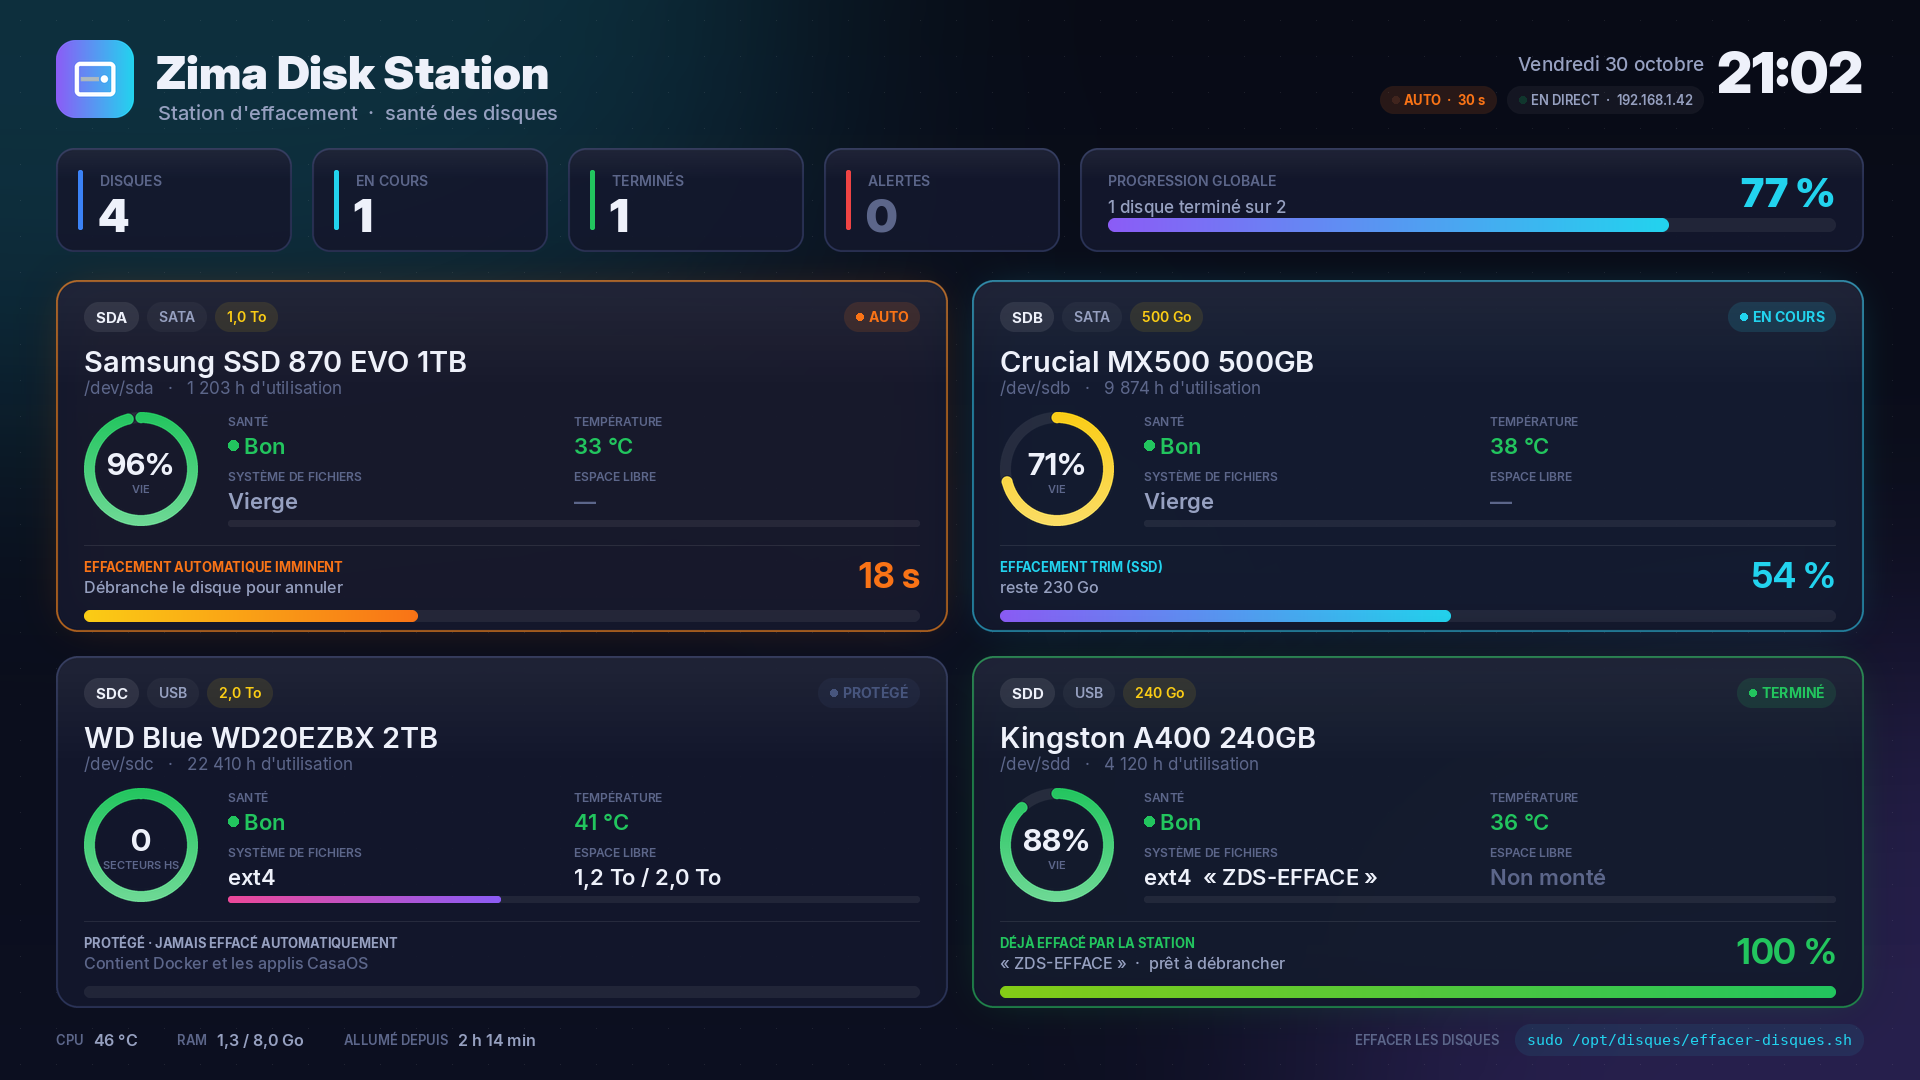
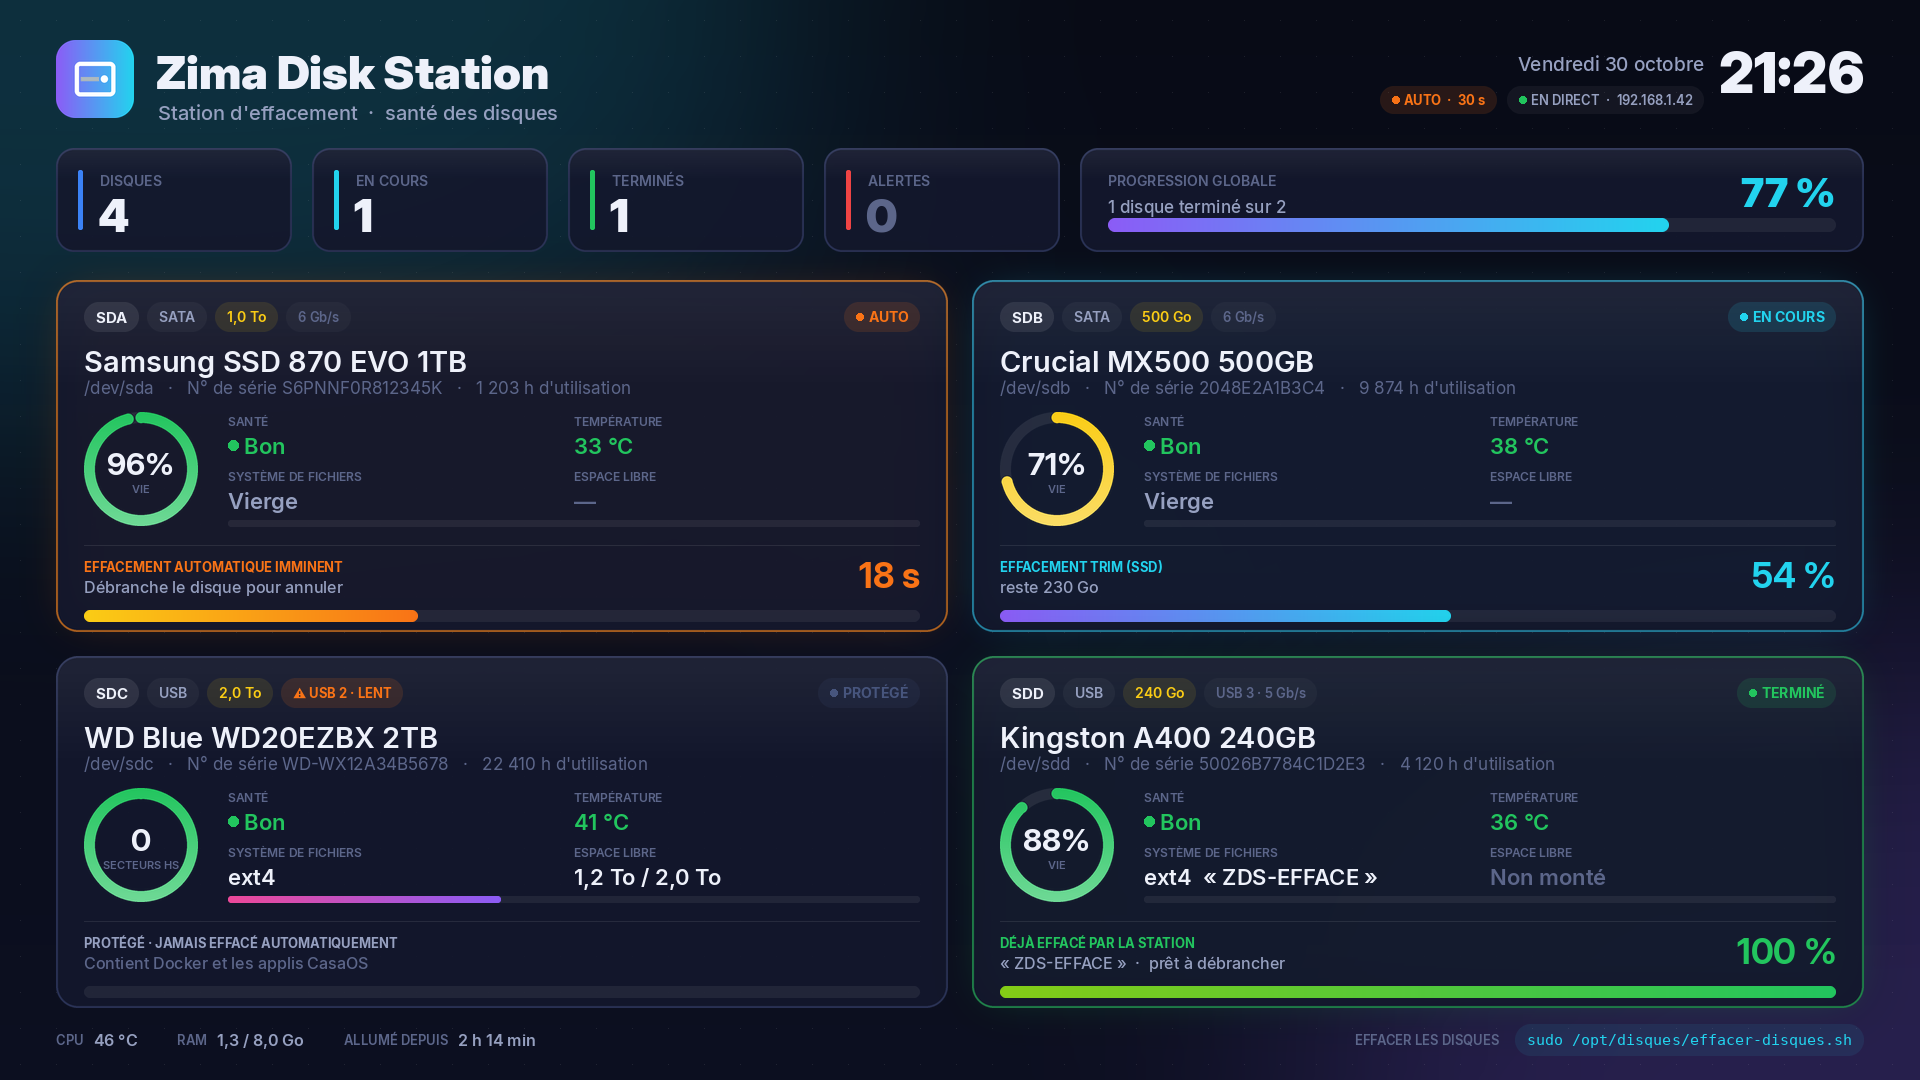
N° de série, vitesse du lien, heure de fin et vérification
- Écran : numéro de série, vitesse réelle du branchement (alerte orange
  pour USB 2 ou SATA limité), heure de fin prévue (« demain » si besoin),
  badge ✓ VÉRIFIÉ.
- Effacement complet : relit le début, la fin et 64 zones au hasard ;
  erreur affichée si une zone n'est pas à zéro. Le TRIM se fait après la
  vérification.
- Aperçus mis à jour.

Claude-Session: https://claude.ai/code/session_01ESERkiZwKhXyX5CCxbZaPW

diff --git a/ecran-disques.py b/ecran-disques.py
@@ -320,18 +320,58 @@ def lire_smart(path):
 def lire_statut(nom):
     p = os.path.join(STATUS_DIR, nom)
     if not os.path.isfile(p):
-        return {"has": False, "pct": 0, "msg": "", "reste": None}
+        return {"has": False, "pct": 0, "msg": "", "reste": None, "fin": None}
     try:
         parts = open(p, encoding="utf-8").read().strip().split("|")
     except OSError:
-        return {"has": False, "pct": 0, "msg": "", "reste": None}
-    parts += ["", "", ""]
+        return {"has": False, "pct": 0, "msg": "", "reste": None, "fin": None}
+    parts += ["", "", "", ""]
     pct = int(parts[0]) if parts[0].lstrip("-").isdigit() else 0
     reste = int(parts[2]) if parts[2].isdigit() else None
-    return {"has": True, "pct": pct, "msg": parts[1], "reste": reste}
+    fin = int(parts[3]) if parts[3].isdigit() else None
+    return {"has": True, "pct": pct, "msg": parts[1], "reste": reste, "fin": fin}
+
+def lire(chemin):
+    try:
+        return open(chemin).read().strip()
+    except OSError:
+        return ""
+
+def vitesse_lien(nom, tran):
+    """Vitesse réelle du branchement : (texte, lent ?)."""
+    dev = os.path.realpath(f"/sys/block/{nom}/device")
+    if tran == "usb":
+        p = dev
+        while p and p != "/":
+            v = lire(os.path.join(p, "speed"))
+            if v.replace(".", "").isdigit() and os.path.isfile(os.path.join(p, "idVendor")):
+                mbps = float(v)
+                if mbps >= 10000:
+                    return "USB 3.1 · 10 Gb/s", False
+                if mbps >= 5000:
+                    return "USB 3 · 5 Gb/s", False
+                if mbps >= 480:
+                    return "USB 2 · LENT", True
+                return "USB 1 · TRÈS LENT", True
+            p = os.path.dirname(p)
+        return "", False
+    if tran == "sata":
+        m = re.search(r"/ata(\d+)/", dev)
+        if m:
+            v = lire(f"/sys/class/ata_link/link{m.group(1)}/sata_spd")
+            if v.startswith("6"):
+                return "6 Gb/s", False
+            if v.startswith("3"):
+                return "SATA 3 Gb/s · LIMITÉ", True
+            if v.startswith("1.5"):
+                return "SATA 1,5 Gb/s · LENT", True
+        return "", False
+    if tran == "nvme":
+        return "NVMe", False
+    return "", False
 
 def collecter():
-    out = run(["lsblk", "-J", "-b", "-o", "NAME,PATH,TYPE,TRAN,SIZE,MODEL,FSTYPE,LABEL,FSAVAIL,FSSIZE,MOUNTPOINT"])
+    out = run(["lsblk", "-J", "-b", "-o", "NAME,PATH,TYPE,TRAN,SIZE,MODEL,SERIAL,FSTYPE,LABEL,FSAVAIL,FSSIZE,MOUNTPOINT"])
     try:
         devs = json.loads(out or "{}").get("blockdevices", [])
     except ValueError:
@@ -350,7 +390,9 @@ def collecter():
         info = {"path": path, "nom": path.split("/")[-1], "tran": tran.upper(), "taille": int(d.get("size") or 0),
                 "modele": (d.get("model") or "Disque").strip(), "fs": fs.get("fstype") or "", "label": fs.get("label") or "",
                 "libre": int(mnt["fsavail"]) if mnt.get("fsavail") else None,
-                "total": int(mnt["fssize"]) if mnt.get("fssize") else None}
+                "total": int(mnt["fssize"]) if mnt.get("fssize") else None,
+                "serie": (d.get("serial") or "").strip()}
+        info["lien"], info["lent"] = vitesse_lien(info["nom"], tran)
         info.update(lire_smart(path))
         info.update(lire_statut(info["nom"]))
         disques.append(info)
@@ -398,9 +440,13 @@ def donnees_demo(n):
         dict(path="/dev/sdd", nom="sdd", tran="USB", taille=240057409536, modele="Kingston A400 240GB",
              etat="BON", vie=88, secteurs=None, temp=36, heures=4120),
     ]
-    vide = dict(fs="", label="", libre=None, total=None, has=False, pct=0, msg="", reste=None)
-    for d in base:
+    vide = dict(fs="", label="", libre=None, total=None, has=False, pct=0, msg="", reste=None, fin=None)
+    series = ["S6PNNF0R812345K", "2048E2A1B3C4", "WD-WX12A34B5678", "50026B7784C1D2E3"]
+    liens = [("6 Gb/s", False), ("6 Gb/s", False), ("USB 2 · LENT", True), ("USB 3 · 5 Gb/s", False)]
+    for d, sn, (l, lent) in zip(base, series, liens):
         d.update(vide)
+        d.update(serie=sn, lien=l, lent=lent)
+    maintenant = int(time.time())
     if n == 1:
         base[0].update(fs="ext4", label="DONNEES", libre=612400000000, total=983900000000)
         base[1].update(fs="ntfs", label="BACKUP")
@@ -414,15 +460,17 @@ def donnees_demo(n):
         base[3].update(has=True, pct=100, msg="Déjà effacé · « ZDS-EFFACE »", reste=0, fs="ext4", label="ZDS-EFFACE")
         return base
     if n == 2:
-        base[0].update(has=True, pct=62, msg="Écriture de zéros · 412 Mo/s · 15 min restantes", reste=395000000000)
-        base[1].update(has=True, pct=87, msg="Écriture de zéros · 395 Mo/s · 3 min restantes", reste=67000000000)
-        base[2].update(has=True, pct=23, msg="Écriture de zéros · 162 Mo/s · 2h38 restantes", reste=1597000000000)
-        base[3].update(has=True, pct=100, msg="Terminé · ext4 « DISQUE4 »", reste=0, fs="ext4", label="DISQUE4")
+        base[0].update(has=True, pct=62, msg="Écriture de zéros · 412 Mo/s · 15 min restantes", reste=395000000000,
+                       fin=maintenant + 16 * 60)
+        base[1].update(has=True, pct=89, msg="Vérification · échantillon 41 / 66", reste=40000000000)
+        base[2].update(has=True, pct=23, msg="Écriture de zéros · 31 Mo/s · 14h20 restantes", reste=1597000000000,
+                       fin=maintenant + 14 * 3600 + 21 * 60)
+        base[3].update(has=True, pct=100, msg="Terminé · ext4 « ZDS-EFFACE » · vérifié", reste=0, fs="ext4", label="ZDS-EFFACE")
         return base
-    base[0].update(has=True, pct=100, msg="Terminé · ext4 « DISQUE1 »", reste=0, fs="ext4", label="DISQUE1")
-    base[1].update(has=True, pct=100, msg="Terminé · ext4 « DISQUE2 »", reste=0, fs="ext4", label="DISQUE2")
+    base[0].update(has=True, pct=100, msg="Terminé · ext4 « ZDS-EFFACE » · vérifié", reste=0, fs="ext4", label="ZDS-EFFACE")
+    base[1].update(has=True, pct=100, msg="Terminé · ext4 « ZDS-EFFACE » · vérifié", reste=0, fs="ext4", label="ZDS-EFFACE")
     base[2].update(etat="DANGER", secteurs=148, temp=57, has=True, pct=45,
-                   msg="Écriture de zéros · 118 Mo/s · 2h41 restantes", reste=1100000000000)
+                   msg="Écriture de zéros · 118 Mo/s · 2h41 restantes", reste=1100000000000, fin=maintenant + 2 * 3600 + 42 * 60)
     return base[:3]
 
 # ------------------------------------------------------------------ réglage du mode automatique
@@ -490,12 +538,19 @@ def dessiner_carte(img, x, y, w, h, d, s):
     cx = X0
     cx += puce(img, cx, fy, d["nom"].upper(), F("bold", 15 * s), TXT, (255, 255, 255, 22), h=ch) + int(8 * s)
     cx += puce(img, cx, fy, d["tran"], F("semi", 14 * s), TXT2, (255, 255, 255, 10), h=ch) + int(8 * s)
-    puce(img, cx, fy, hum(d["taille"]), F("semi", 14 * s), YELLOW, YELLOW + (26,), h=ch)
+    cx += puce(img, cx, fy, hum(d["taille"]), F("semi", 14 * s), YELLOW, YELLOW + (26,), h=ch) + int(8 * s)
+    if d.get("lien"):
+        if d.get("lent"):
+            puce(img, cx, fy, "⚠ " + d["lien"], F("bold", 13 * s), ORANGE, ORANGE + (34,), h=ch)
+        else:
+            puce(img, cx, fy, d["lien"], F("semi", 13 * s), TXT3, (255, 255, 255, 8), h=ch)
     puce(img, X1, fy, badge, F("bold", 14 * s), coul, coul + (34,), h=ch, point=coul, droite=True)
 
     # --- modèle + sous-titre
     dr.text((X0, y + int(62 * s)), tronquer(d["modele"], F("semi", 28 * s), X1 - X0), font=F("semi", 28 * s), fill=TXT, anchor="la")
     sous = d["path"]
+    if d.get("serie"):
+        sous += f"   ·   N° de série {d['serie']}"
     if d.get("heures") is not None:
         sous += f"   ·   {milliers(d['heures'])} h d'utilisation"
     dr.text((X0, y + int(96 * s)), tronquer(sous, F("reg", 17 * s), X1 - X0), font=F("reg", 17 * s), fill=TXT3, anchor="la")
@@ -574,6 +629,12 @@ def dessiner_carte(img, x, y, w, h, d, s):
         return
     if st == "cours" or (st in ("danger", "erreur") and d["has"] and d["pct"] < 100 and not d["msg"].startswith(("ERREUR", "PROTÉGÉ"))):
         etape = morceaux[0]
+        if d.get("fin"):
+            fin_t = datetime.datetime.fromtimestamp(d["fin"])
+            morceaux = [m.replace(" restantes", "") for m in morceaux]
+            jours = (fin_t.date() - datetime.date.today()).days
+            quand = "" if jours <= 0 else ("demain " if jours == 1 else f"le {fin_t.day} {MOIS[fin_t.month - 1]} ")
+            morceaux.append(f"fin {quand or 'vers '}{fin_t.hour} h {fin_t.minute:02d}")
         details = "  ·  ".join(morceaux[1:])
         if d.get("reste"):
             details += ("  ·  " if details else "") + f"reste {hum(d['reste'])}"
@@ -586,8 +647,12 @@ def dessiner_carte(img, x, y, w, h, d, s):
         img.alpha_composite(barre(X1 - X0, int(12 * s), d["pct"] / 100, CYAN, VIOLET), (X0, by))
     elif st == "fini" or (d["has"] and d["pct"] >= 100):
         dr.text((X1, ty + 16 * s), "100 %", font=F("dbold", 34 * s), fill=GREEN, anchor="rm")
-        dr.text((X0, ty), "DÉJÀ EFFACÉ PAR LA STATION" if d["msg"].startswith("Déjà") else "EFFACÉ ET FORMATÉ",
-                font=F("bold", 13 * s), fill=GREEN, anchor="la")
+        verifie = "vérifié" in d["msg"]
+        titre = "DÉJÀ EFFACÉ PAR LA STATION" if d["msg"].startswith("Déjà") else "EFFACÉ ET FORMATÉ"
+        dr.text((X0, ty), titre, font=F("bold", 13 * s), fill=GREEN, anchor="la")
+        if verifie:
+            puce(img, X0 + F("bold", 13 * s).getlength(titre) + 10 * s, ty - 4 * s, "✓ VÉRIFIÉ",
+                 F("bold", 11 * s), (10, 40, 22), GREEN + (230,), h=int(20 * s))
         fin = (morceaux[1] if len(morceaux) > 1 else "") + "  ·  prêt à débrancher"
         dr.text((X0, ty + 18 * s), fin.strip(" ·"), font=F("med", 16 * s), fill=TXT2, anchor="la")
         img.alpha_composite(barre(X1 - X0, int(12 * s), 1.0, GREEN, LIME), (X0, by))

diff --git a/README.md b/README.md
@@ -17,7 +17,9 @@
 |---|---|
 | 🩺 **Santé des disques** | Anneau de vie (vert → jaune → rouge), état SMART, température, heures d'utilisation. Pour les disques durs, nombre de secteurs défectueux. |
 | 💾 **Stockage** | Système de fichiers, nom du volume, espace libre / utilisé. |
-| 🧹 **Effacement** | Tous les disques SATA, USB et NVMe en même temps, avec %, vitesse, temps restant et Go à effacer. |
+| 🧹 **Effacement** | Tous les disques SATA, USB et NVMe en même temps : chaque bloc réécrit à zéro, avec %, vitesse, **heure de fin prévue** et Go restants. |
+| ✓ **Vérification** | Après la réécriture, 66 zones réparties sur tout le disque sont relues : le badge **✓ VÉRIFIÉ** n'apparaît que si tout est à zéro. |
+| 🏷 **Identification** | **N° de série** de chaque disque et **vitesse du branchement**, avec alerte si un disque est sur un port lent (USB 2, SATA limité). |
 | ⚡ **Automatique** | Branche un disque : compte à rebours de 30 s à l'écran, puis effacement. Débranche pour annuler. |
 | 🛡 **Protections** | Ne touche jamais la mémoire interne (eMMC), le disque système ni le disque qui contient Docker / les applis CasaOS. |
 | 🖥 **Écran HDMI** | S'affiche tout seul au démarrage, sans clavier ni souris. |
